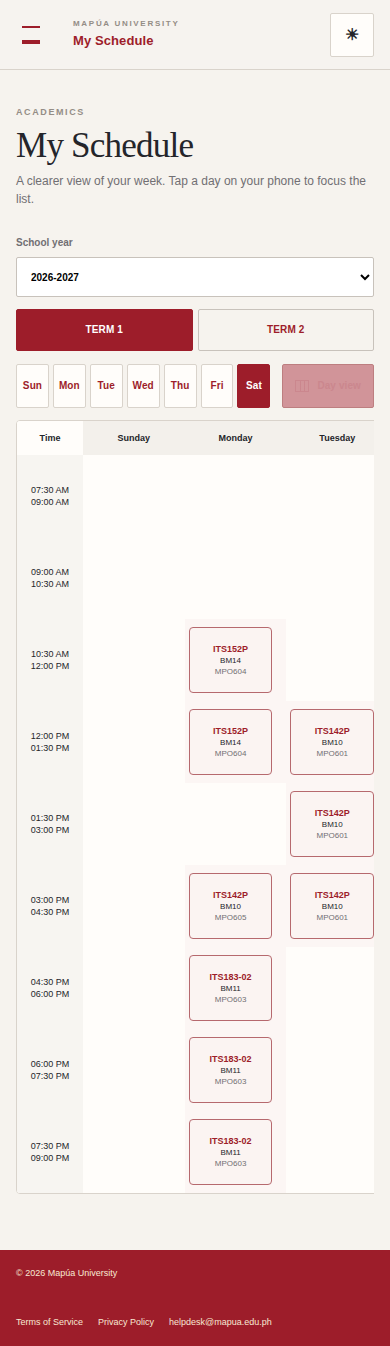
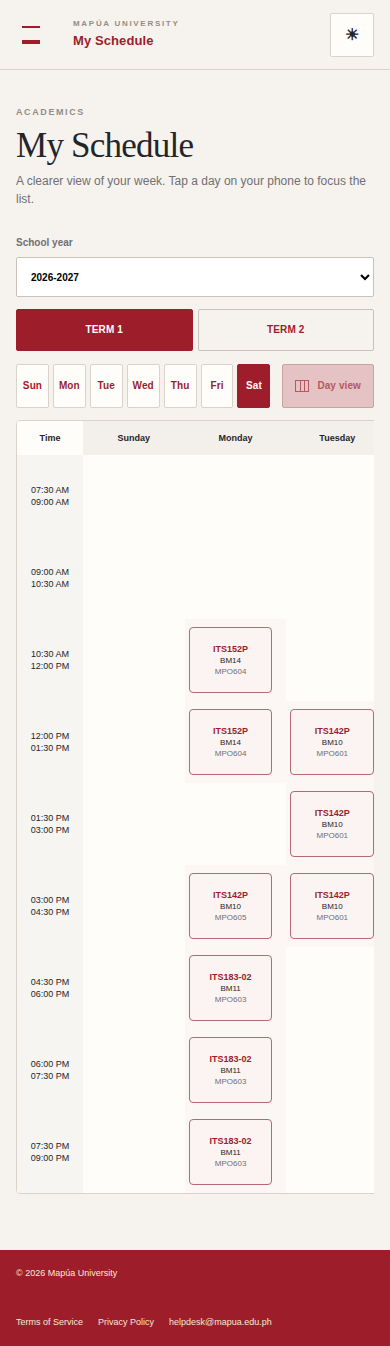
align schedule subjects

Changed region(s): [[0.7077, 0.2496, 0.9846, 0.312]]

diff --git a/styles.css b/styles.css
@@ -2232,6 +2232,29 @@ html[data-theme="dark"] .content .payment-method-grid .payment-logo.logo-cebuana
 	width: 40px !important;
 	height: 40px !important;
 	padding: 7px !important;
+
+.content .schedule-table .class-block {
+	display: flex;
+	width: calc(100% - 8px);
+	min-width: 0;
+	min-height: 60px;
+	align-items: center;
+	justify-content: center;
+	margin: 0 auto;
+	padding: 8px 4px;
+	gap: 2px;
+	line-height: 1.25;
+	text-align: center;
+}
+
+.content .schedule-table .class-block strong,
+.content .schedule-table .class-block span,
+.content .schedule-table .class-block small {
+	width: 100%;
+	margin: 0;
+	text-align: center;
+	white-space: nowrap;
+}
 	background: #fff !important;
 	border: 1px solid #b8b8b8 !important;
 	border-radius: 10px !important;
@@ -3288,6 +3311,24 @@ html[data-theme="dark"] .content .payment-method-grid .payment-logo.logo-cebuana
 	.content .schedule-table .class-block {
 		min-height: 66px;
 		padding: 6px 3px;
+	}
+
+	.content .mobile-class-time {
+		align-self: center;
+	}
+
+	.content .mobile-class .class-block {
+		width: 100%;
+		margin: 0;
+		align-items: flex-start;
+		text-align: left;
+	}
+
+	.content .mobile-class .class-block strong,
+	.content .mobile-class .class-block span,
+	.content .mobile-class .class-block small {
+		width: auto;
+		text-align: left;
 	}
 
 	.curriculum-legend {
